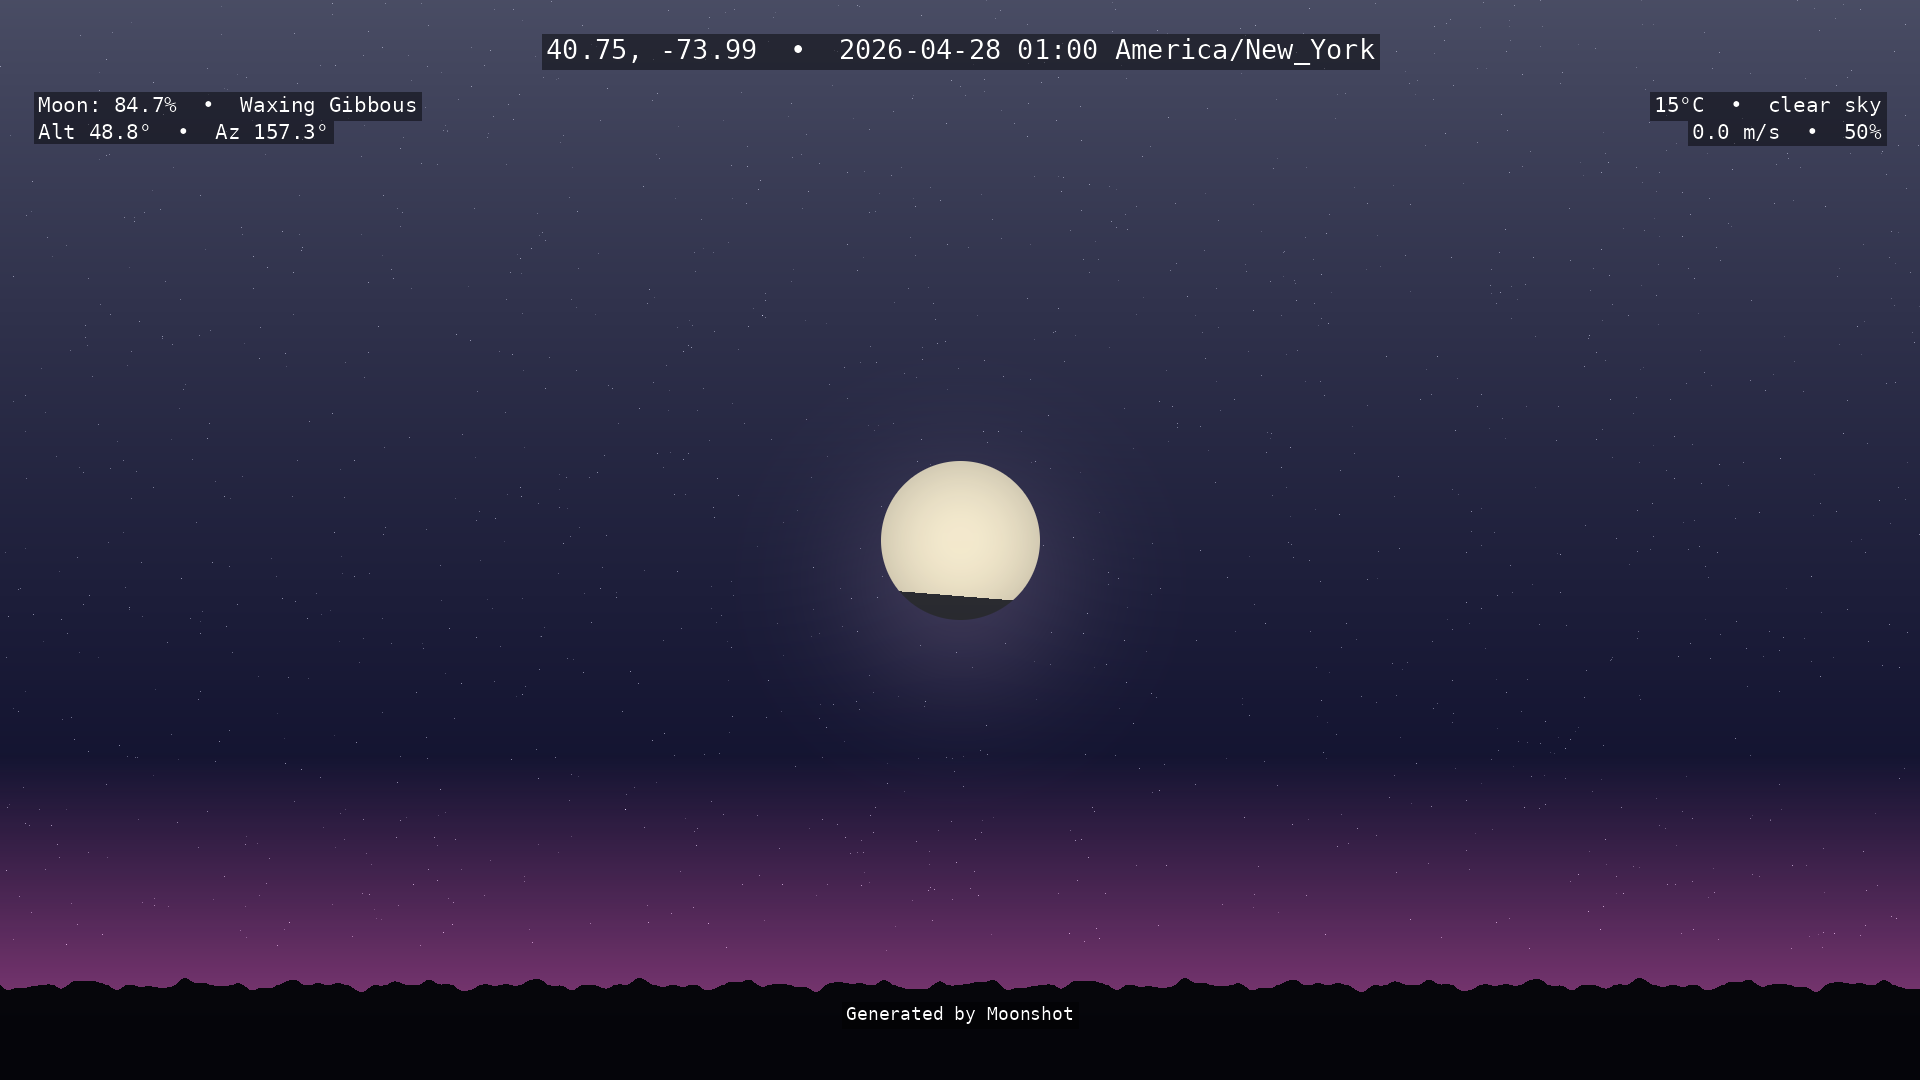
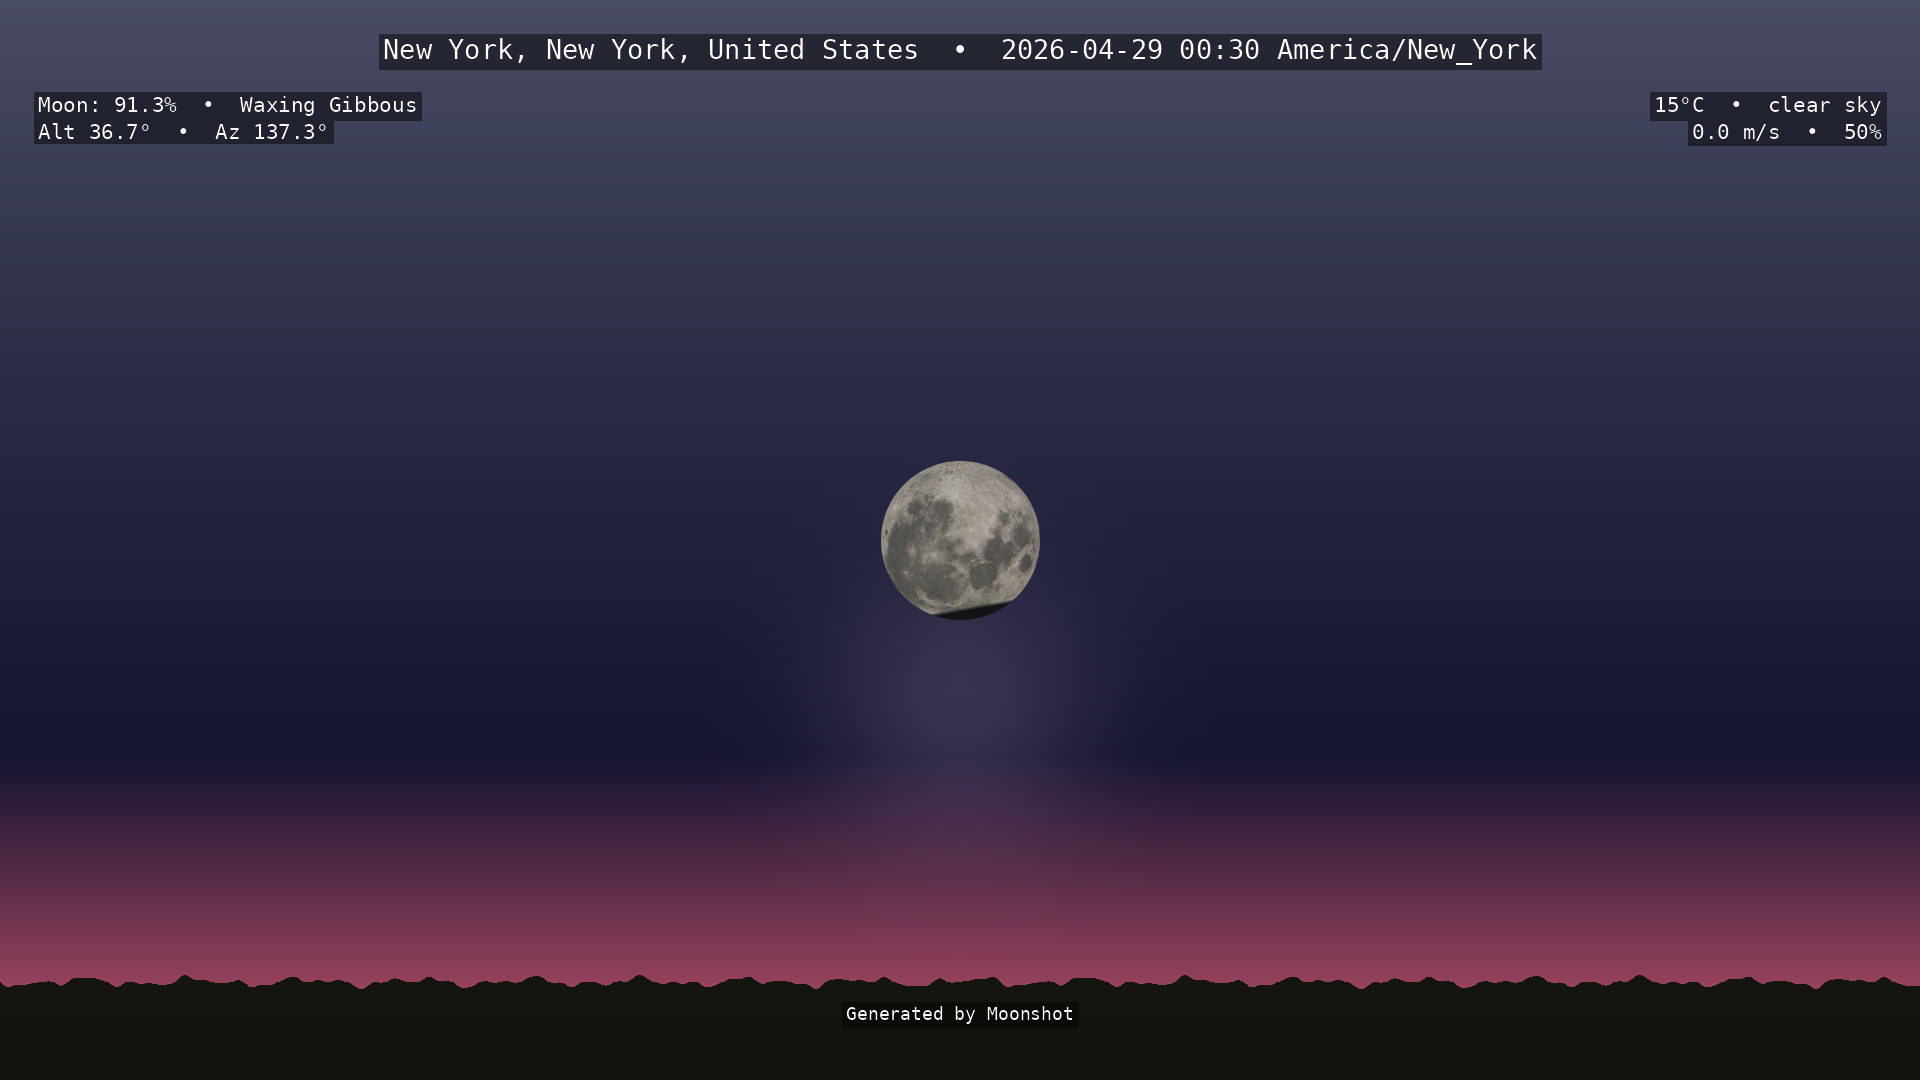
Update README with new features (stars, moon texture, international) and regenerate gallery

diff --git a/README.md b/README.md
@@ -1,19 +1,21 @@
 # Moonshot 🌙
 
-Generate scientifically-accurate PNG images of the moon as it would appear from any US location.
+Generate scientifically-accurate PNG images of the moon as it would appear from **anywhere on Earth**.
 
 ## Features
 
 - **Precise moon position** — altitude & azimuth based on IAU-standard algorithms
 - **Realistic phase rendering** — illumination percentage, terminator angle, phase name
+- **Real moon surface texture** — texture-mapped lunar surface from NASA LRO data with earthshine effect on the dark side
+- **Real star data** — stars rendered from the HYG Database v3 (41K+ stars, precessed to observation epoch) with spectral colors and atmospheric extinction
 - **Atmospheric effects** — refraction correction, Rayleigh/Mie scattering for accurate color
 - **Weather integration** — current conditions affect moon visibility and sky rendering
-- **US location support** — by ZIP code, City/State, or direct lat/lon coordinates
+- **Worldwide location support** — by ZIP/postal code, City/State/Country, or direct lat/lon coordinates
 - **Beautiful PNG output** — configurable resolution, horizon, annotations
 
 ## Gallery
 
-Moonshots generated on **April 27, 2026** — a Waning Gibbous moon (∼89% illuminated):
+Moonshots generated on **April 28, 2026** — a Waning Gibbous moon (∼95% illuminated):
 
 | New York City (8:30pm EDT) | Los Angeles (8:30pm PDT) | Chicago (8:30pm CDT) |
 |---|---|---|
@@ -34,11 +36,16 @@ source .venv/bin/activate
 pip install -r requirements.txt
 
 # Generate moon image for Indianapolis
-python -m src.main --zip 46201 --date 2026-04-27 --time 21:00
+python -m src.main --zip 46201 --date 2026-04-28 --time 21:00
 
 # With weather data
-export MOONSHOT_WEATHER_API_KEY=your_openweathermap_key
+export MOONSHOT_WEATHER_API_KEY=your_openweather_api_key
 python -m src.main --city "Indianapolis" --state "IN" --output moon.png
+
+# International locations
+python -m src.main --city "Paris" --country "France"
+python -m src.main --city "Tokyo"
+python -m src.main --city "Melbourne" --state "Victoria" --country "Australia"
 
 # Full options
 python -m src.main --help
@@ -48,9 +55,10 @@ python -m src.main --help
 
 | Flag | Description | Default |
 |------|-------------|---------|
-| `--zip` | US ZIP code | — |
+| `--zip` | ZIP / postal code | — |
 | `--city` | City name | — |
-| `--state` | State abbreviation | — |
+| `--state` | State / region / province | — |
+| `--country` | Country name | — (defaults to USA if --state given) |
 | `--lat` | Latitude | — |
 | `--lon` | Longitude | — |
 | `--date` | Date (YYYY-MM-DD) | Today |
@@ -66,18 +74,20 @@ python -m src.main --help
 Whenever rendering code changes, regenerate the gallery before committing:
 
 ```bash
-python -m src.main --zip 10001 --output output/gallery/moonshot_new_york_city.png
-python -m src.main --zip 90001 --output output/gallery/moonshot_los_angeles.png
-python -m src.main --city Chicago --state IL --output output/gallery/moonshot_chicago.png
-python -m src.main --city Indianapolis --state IN --output output/gallery/moonshot_indianapolis.png
-python -m src.main --city Miami --state FL --output output/gallery/moonshot_miami.png
-python -m src.main --city Denver --state CO --output output/gallery/moonshot_denver.png
+python -m src.main --zip 10001 --date 2026-04-28 --time 20:30 --output output/gallery/moonshot_new_york_city.png
+python -m src.main --zip 90001 --date 2026-04-28 --time 20:30 --output output/gallery/moonshot_los_angeles.png
+python -m src.main --city Chicago --state IL --date 2026-04-28 --time 20:30 --output output/gallery/moonshot_chicago.png
+python -m src.main --city Indianapolis --state IN --date 2026-04-28 --time 21:00 --output output/gallery/moonshot_indianapolis.png
+python -m src.main --city Miami --state FL --date 2026-04-28 --time 21:00 --output output/gallery/moonshot_miami.png
+python -m src.main --city Denver --state CO --date 2026-04-28 --time 20:30 --output output/gallery/moonshot_denver.png
 ```
 
 ## Technical Details
 
 - **Moon position:** IAU-standard algorithms via ELP2000-82 analytical lunar ephemeris
 - **Phase:** Sun-Moon-Observer angle with precise terminator
+- **Moon surface:** Texture-mapped from LRO WAC data (512x256 equirectangular), with earthshine on the dark side
+- **Stars:** HYG Database v3 (41K+ stars, Vmag < 8.0), precessed to observation epoch with spectral colors and atmospheric extinction
 - **Refraction:** Saemundsson (1986) formula
 - **Scattering:** Rayleigh & Mie with air mass via Kasten & Young (1989)
 - **Weather:** OpenWeatherMap API (free tier)
